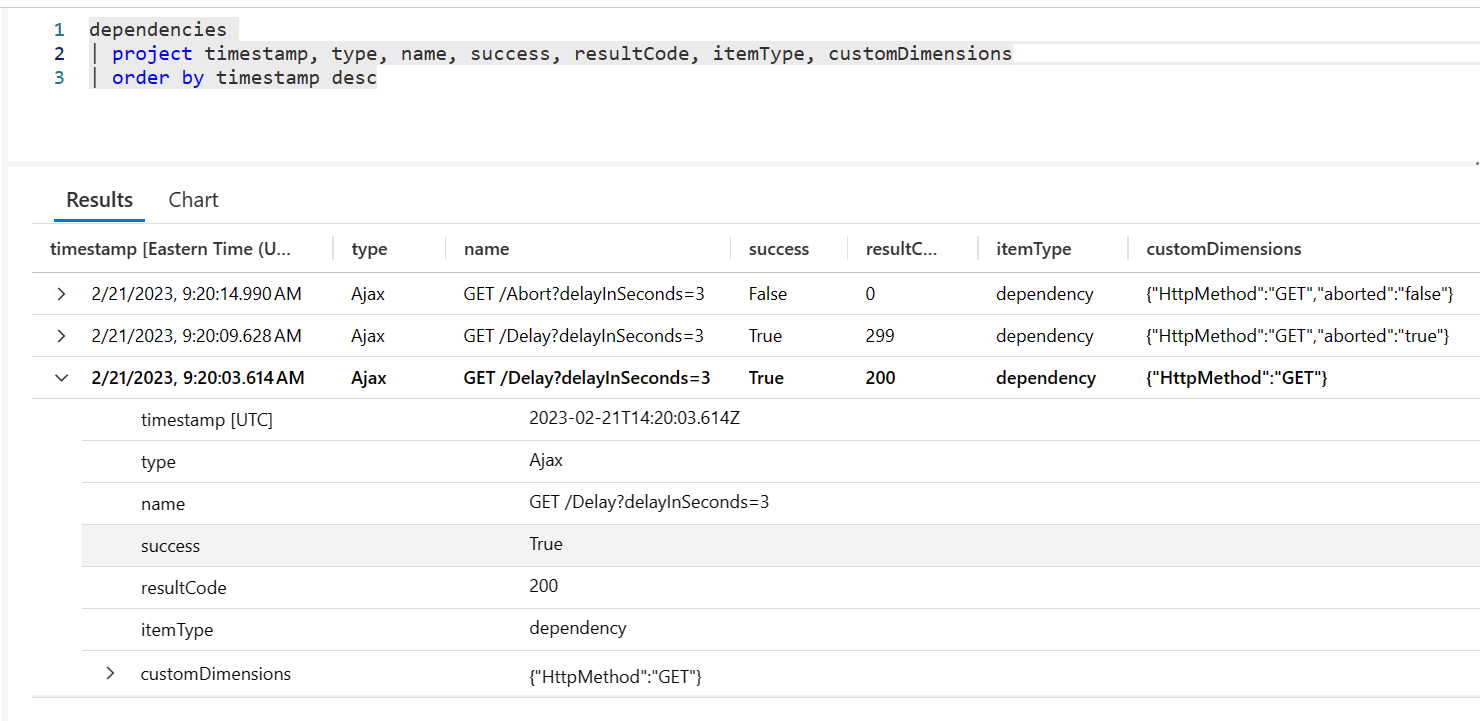
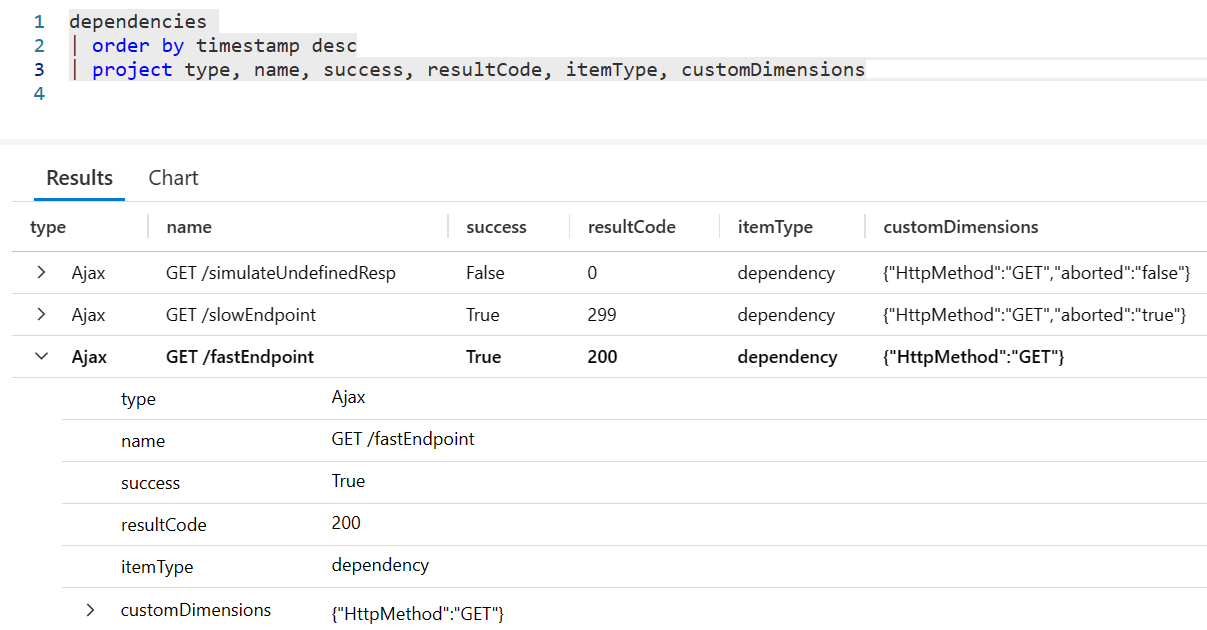
fix typos, new intro, new screenshots

diff --git a/src/ajax-demo/wwwroot/index.html b/src/ajax-demo/wwwroot/index.html
@@ -4,6 +4,7 @@
 <head>
     <meta charset="utf-8" />
     <title>Application Insights Telemetry Enrichment - Aborted Dependency Demo</title>
+    <link rel="icon" href="data:,">
     <script src="/javascript.js" type="text/javascript"></script>
     <script type="text/javascript">
         !function (T, l, y) { var S = T.location, k = "script", D = "connectionString", C = "ingestionendpoint", I = "disableExceptionTracking", E = "ai.device.", b = "toLowerCase", w = "crossOrigin", N = "POST", e = "appInsightsSDK", t = y.name || "appInsights"; (y.name || T[e]) && (T[e] = t); var n = T[t] || function (d) { var g = !1, f = !1, m = { initialize: !0, queue: [], sv: "5", version: 2, config: d }; function v(e, t) { var n = {}, a = "Browser"; return n[E + "id"] = a[b](), n[E + "type"] = a, n["ai.operation.name"] = S && S.pathname || "_unknown_", n["ai.internal.sdkVersion"] = "javascript:snippet_" + (m.sv || m.version), { time: function () { var e = new Date; function t(e) { var t = "" + e; return 1 === t.length && (t = "0" + t), t } return e.getUTCFullYear() + "-" + t(1 + e.getUTCMonth()) + "-" + t(e.getUTCDate()) + "T" + t(e.getUTCHours()) + ":" + t(e.getUTCMinutes()) + ":" + t(e.getUTCSeconds()) + "." + ((e.getUTCMilliseconds() / 1e3).toFixed(3) + "").slice(2, 5) + "Z" }(), name: "Microsoft.ApplicationInsights." + e.replace(/-/g, "") + "." + t, sampleRate: 100, tags: n, data: { baseData: { ver: 2 } } } } var h = d.url || y.src; if (h) { function a(e) { var t, n, a, i, r, o, s, c, u, p, l; g = !0, m.queue = [], f || (f = !0, t = h, s = function () { var e = {}, t = d.connectionString; if (t) for (var n = t.split(";"), a = 0; a < n.length; a++) { var i = n[a].split("="); 2 === i.length && (e[i[0][b]()] = i[1]) } if (!e[C]) { var r = e.endpointsuffix, o = r ? e.location : null; e[C] = "https://" + (o ? o + "." : "") + "dc." + (r || "services.visualstudio.com") } return e }(), c = s[D] || d[D] || "", u = s[C], p = u ? u + "/v2/track" : d.endpointUrl, (l = []).push((n = "SDK LOAD Failure: Failed to load Application Insights SDK script (See stack for details)", a = t, i = p, (o = (r = v(c, "Exception")).data).baseType = "ExceptionData", o.baseData.exceptions = [{ typeName: "SDKLoadFailed", message: n.replace(/\./g, "-"), hasFullStack: !1, stack: n + "\nSnippet failed to load [" + a + "] -- Telemetry is disabled\nHelp Link: https://go.microsoft.com/fwlink/?linkid=2128109\nHost: " + (S && S.pathname || "_unknown_") + "\nEndpoint: " + i, parsedStack: [] }], r)), l.push(function (e, t, n, a) { var i = v(c, "Message"), r = i.data; r.baseType = "MessageData"; var o = r.baseData; return o.message = 'AI (Internal): 99 message:"' + ("SDK LOAD Failure: Failed to load Application Insights SDK script (See stack for details) (" + n + ")").replace(/\"/g, "") + '"', o.properties = { endpoint: a }, i }(0, 0, t, p)), function (e, t) { if (JSON) { var n = T.fetch; if (n && !y.useXhr) n(t, { method: N, body: JSON.stringify(e), mode: "cors" }); else if (XMLHttpRequest) { var a = new XMLHttpRequest; a.open(N, t), a.setRequestHeader("Content-type", "application/json"), a.send(JSON.stringify(e)) } } }(l, p)) } function i(e, t) { f || setTimeout(function () { !t && m.core || a() }, 500) } var e = function () { var n = l.createElement(k); n.src = h; var e = y[w]; return !e && "" !== e || "undefined" == n[w] || (n[w] = e), n.onload = i, n.onerror = a, n.onreadystatechange = function (e, t) { "loaded" !== n.readyState && "complete" !== n.readyState || i(0, t) }, n }(); y.ld < 0 ? l.getElementsByTagName("head")[0].appendChild(e) : setTimeout(function () { l.getElementsByTagName(k)[0].parentNode.appendChild(e) }, y.ld || 0) } try { m.cookie = l.cookie } catch (p) { } function t(e) { for (; e.length;)!function (t) { m[t] = function () { var e = arguments; g || m.queue.push(function () { m[t].apply(m, e) }) } }(e.pop()) } var n = "track", r = "TrackPage", o = "TrackEvent"; t([n + "Event", n + "PageView", n + "Exception", n + "Trace", n + "DependencyData", n + "Metric", n + "PageViewPerformance", "start" + r, "stop" + r, "start" + o, "stop" + o, "addTelemetryInitializer", "setAuthenticatedUserContext", "clearAuthenticatedUserContext", "flush"]), m.SeverityLevel = { Verbose: 0, Information: 1, Warning: 2, Error: 3, Critical: 4 }; var s = (d.extensionConfig || {}).ApplicationInsightsAnalytics || {}; if (!0 !== d[I] && !0 !== s[I]) { var c = "onerror"; t(["_" + c]); var u = T[c]; T[c] = function (e, t, n, a, i) { var r = u && u(e, t, n, a, i); return !0 !== r && m["_" + c]({ message: e, url: t, lineNumber: n, columnNumber: a, error: i }), r }, d.autoExceptionInstrumented = !0 } return m }(y.cfg); function a() { y.onInit && y.onInit(n) } (T[t] = n).queue && 0 === n.queue.length ? (n.queue.push(a), n.trackPageView({})) : a() }(window, document, {

diff --git a/src/ajax-demo/wwwroot/javascript.js b/src/ajax-demo/wwwroot/javascript.js
@@ -52,7 +52,7 @@ document.addEventListener("DOMContentLoaded", (event) => {
     btnSuccessfulXHR.addEventListener('click', async () => {
         const xhr = new XMLHttpRequest();
         xhr.addEventListener("load", (e) => console.log(e.target.response));
-        xhr.open("GET", "/Delay?delayInSeconds=3");
+        xhr.open("GET", "/fastEndpoint");
         xhr.send();
     });
 
@@ -61,7 +61,7 @@ document.addEventListener("DOMContentLoaded", (event) => {
     btnClientAbortXHR.addEventListener('click', async () => {
         let xhr = new XMLHttpRequest();
         xhr.addEventListener("load", (e) => console.log(e.target.response));
-        xhr.open("GET", "/Delay?delayInSeconds=3");
+        xhr.open("GET", "/slowEndpoint");
         xhr.send();
         // abort the call before it's completed at the server
         setTimeout(() => xhr.abort(), 1500); //abort in 1.5 seconds
@@ -72,14 +72,14 @@ document.addEventListener("DOMContentLoaded", (event) => {
     btnUndefinedResponseXHR.addEventListener('click', async () => {
         let xhr = new XMLHttpRequest();
         xhr.addEventListener("load", (e) => console.log(e.target.response));
-        xhr.open("GET", "/Abort?delayInSeconds=3");
+        xhr.open("GET", "/simulateUndefinedResp");
         xhr.send();
     });
 
 
     let btnSuccessfulFetch = document.getElementById('btnSuccessfulFetch');
     btnSuccessfulFetch.addEventListener('click', async () => {
-        await fetch('/Delay?delayInSeconds=3')
+        await fetch('/fastEndpoint')
             .then((response) => response.json())
             .then((data) => console.log(data));
     });
@@ -91,7 +91,7 @@ document.addEventListener("DOMContentLoaded", (event) => {
         // abort the call before it's completed at the server
         setTimeout(() => abortController.abort(), 1500); //abort in 1.5 seconds
 
-        await fetch('/Delay?delayInSeconds=3', {
+        await fetch('/slowEndpoint', {
             signal: abortController.signal
         })
             .then((response) => response.json())
@@ -101,7 +101,7 @@ document.addEventListener("DOMContentLoaded", (event) => {
 
     let btnUndefinedResponseFetch = document.getElementById('btnUndefinedResponseFetch');
     btnUndefinedResponseFetch.addEventListener('click', async () => {
-        await fetch('/Abort?delayInSeconds=3')
+        await fetch('/simulateUndefinedResp')
             .then((response) => response.json())
             .then((data) => console.log(data));
     });

diff --git a/src/ajax-demo/Program.cs b/src/ajax-demo/Program.cs
@@ -1,22 +1,31 @@
 var builder = WebApplication.CreateBuilder(args);
+builder.WebHost.UseUrls("http://localhost:5000/");
 
 var app = builder.Build();
 app.UseDefaultFiles();
 app.UseStaticFiles();
 
-app.MapGet("/Delay", async (int delayInSeconds, Microsoft.AspNetCore.Http.HttpContext context) =>
+const int DELAY_IN_SECONDS = 3;
+
+app.MapGet("/fastEndpoint", () =>
 {
-    var startTime = DateTime.Now;
-    await System.Threading.Tasks.Task.Delay(delayInSeconds * 1000);
-    var endTime = DateTime.Now;
-    
+    var searchResults = new[] { new { key = 1, value = "motor" }, new { key = 2, value = "motorcycle" }, new { key = 3, value = "motown" } };
     // return some arbitrary data just so we have something to see on the browsers console.
-    return new {delayInSeconds = delayInSeconds, startTime = startTime.ToLongTimeString(), endTime = endTime.ToLongTimeString() };
+    return new { data = searchResults, serverTime = DateTime.Now.ToLongTimeString() };
 });
 
-app.MapGet("/Abort", async (int delayInSeconds, Microsoft.AspNetCore.Http.HttpContext context) =>
+app.MapGet("/slowEndpoint", async () =>
 {
-    await System.Threading.Tasks.Task.Delay(delayInSeconds * 1000);
+    await System.Threading.Tasks.Task.Delay(DELAY_IN_SECONDS * 1000);
+
+    var searchResults = new[] { new { key = 1, value = "car" }, new { key = 2, value = "carpet" }, new { key = 3, value = "carrot" } };
+    // return some arbitrary data just so we have something to see on the browsers console.
+    return new { data = searchResults, delayInSeconds = DELAY_IN_SECONDS, serverTime = DateTime.Now.ToLongTimeString() };
+});
+
+app.MapGet("/simulateUndefinedResp", async (Microsoft.AspNetCore.Http.HttpContext context) =>
+{
+    await System.Threading.Tasks.Task.Delay(DELAY_IN_SECONDS * 1000);
     // calling Abort on the context kills the connection. The client won't know why the connection was dropped.
     // this is an easy way to simulate a server crash or a network partition.
     context.Abort();

diff --git a/README.md b/README.md
@@ -1,22 +1,24 @@
-# Making Application Insights even more insightful with telemetry enrichment
-Application Insights offers a tremendous amount of observability with minimal configuration. The library of SDKs and collection agents truly do a wonderful job straight out of the box. However, they cannot account for every possible scenario. Some times we need more context-specific information for a crucial insight. This is where telemetry enrichment comes into play. In this article we will explore a real world scenario where we used telemetry enrichment to provide that necessary insight.
+# Making Azure Monitor even more insightful with telemetry enrichment
+Azure Monitor offers a tremendous amount of observability with minimal configuration. The Azure Monitor Agent and Application Insights SDKs truly do a wonderful job straight out of the box. However, they cannot account for every possible scenario. Some times we need more context-specific information for a crucial insight. This is where telemetry enrichment comes into play. In this article we will explore a real world scenario where we used telemetry enrichment to provide that necessary insight.
 
-Let me provide some context before we go further. Our application is a single page web app supported by a BFF, both of which are instrumented with the Application Insights SDK for their respective platform. Application Insights has built-in dashboards that provide various perspectives on the health of our app, we will be focusing on the failures dashboard. The failures dashboard is organized around two major perspectives, server side failures and client side failures.
+Let me provide some context before we go further. Our application is a single page web app supported by a BFF (backend for frontend), both of which are instrumented with the Application Insights SDK for their respective platform. 
+
+Application Insights has built-in dashboards that provide various perspectives on the health of our app, we will be focusing on the failures dashboard. The failures dashboard is organized around two major perspectives, server side failures and client side failures.
 
 ## Here's our dilemma
-The server side telemetry is painting a mostly unremarkable picture, there are some exceptions but nothing is raising red flags. The client side is a different story. A very large number of request are shown as failures with a result* code of 0 (zero). Wait a tick... result code 0? We were expecting to see HTTP 400 and 500 codes. What does result code 0 mean?
+The server side telemetry is painting a mostly unremarkable picture, there are some exceptions but nothing too concerning. The client side is a different story. A very large number of request are shown as failures with a result* code of 0 (zero). Wait a tick... result code 0? We were expecting to see HTTP 400 and 500 codes. What does result code 0 mean?
 
-> \* In Application Insights you will find a field called Re**sult** Code instead of Res**ponse** Code. This is because Application Insights tracks more than just HTTP dependencies, so you may see non-HTTP codes in the logs if your application has other types of dependencies. In our case we were dealing with HTTP traffic so a code of 0 was not something we were expecting.
+> \* In the Application Insights portal you will find a field called Re**sult** Code instead of Res**ponse** Code. This is because Application Insights tracks more than just HTTP dependencies, so you may see non-HTTP codes in the logs. In this instance we were dealing with HTTP traffic so a code of 0 was not something we were expecting.
 
 ## Result code 0
-Most of us are familiar with the common HTTP response status codes. 200 OK, 301 Redirect, 404 Not-Found, etc... but have you encountered response code 0 (zero). In case you haven't, let me explain what it's all about.
+Most of us are familiar with the common HTTP response status codes: 200 OK, 301 Redirect, 404 Not-Found, etc. But have you ever encountered response code 0 (zero)? In case you haven't, let me explain what it's all about.
 
 When we think of HTTP response status codes we take it for granted that the server received the request from the client and subsequently, that the response from the server made it back to the client. But what happens when the client doesn't hear back from the server in a timely fashion, or perhaps the client aborts a request that is no longer needed? We'll refer to these scenarios as fragmented HTTP request and response pairs or 'fragmented pairs' for short.
 
 ![Normal HTTP Request and Response Pair | Fragmented Pair](screenshots/http_request_response.png)
 
 ### Fragmented Pairs - Undefined response and aborted requests
-The fragmented pair scenarios can be grouped into two broad categories. The first category encompasses circumstances like network partition, back-end service disruption, a busy server, the intern tripped over the power cable, etc... In these circumstances the client has no way of knowing if the server was able to send a response, and if so, did the response get lost on the way to the client. In other words, the client can't tell the difference between the server crashing (no response was ever sent) and the server responding but the response that was lost due to a network issue. From the client's perspective the response is **undefined**.
+The fragmented pair scenarios can be grouped into two broad categories. The first category encompasses circumstances like network partition, back-end service disruption, a busy server, the intern tripping over the power cable, fun stuff like that. In these circumstances the client has no way of knowing if the server was able to send a response, and if so, did the response get lost on the way to the client. In other words, the client can't tell the difference between the server crashing (no response was ever sent) and the server responded but the response was lost due to a network issue. From the client's perspective the response is **undefined**.
 
 There is little the client telemetry agent can do when the response is undefined. For the sake of argument let's assume the server was able to respond but the response never arrived at the client due to a network partition. Ostensibly, Application Insights could correlate the client's request with the server response **after the fact** because ultimately Application Insights has visibility into both sides. Even so, we must consider the response undefined because the response never reached the client. At the time of the request the client was left holding the bag. The client telemetry agent is forced to record the request as a failure and assign a result code of 0 as a way to signal that the response was undefined.
 
@@ -26,7 +28,7 @@ As you may have surmise, there is a key difference between the first and second 
 
 ## Back to the problem at hand 
 
-To recap, the server side failures is showing nothing out of the ordinary but the client side failures is showing a large number of failed request with a result code of 0. After drilling into the logs we discover that the vast majority of client side exceptions are attributed to an autocomplete search. Our intuition is telling us that perhaps these failed request are being deliberately aborted by the client. A quick glance at the client code confirms that the client is in fact aborting autocomplete queries when they are no longer necessary. Because we know the client is aborting request we can safely assume that some percentage of the reportedly failed request are false positives (aborted request). Problem solved, right? Not so fast.
+To recap, the server side failures dashboard is showing nothing out of the ordinary but the client side is showing a large number of failed request with a result code of 0. After drilling into the logs we discover that the vast majority of client side exceptions are attributed to an autocomplete search. Our intuition is telling us that perhaps these failed request are being deliberately aborted by the client. A quick glance at the client code confirms that the client is in fact aborting autocomplete queries when the response is no longer relevant. Because we know the client is aborting request we can safely assume that some percentage of the reportedly failed request are false positives (aborted request). Problem solved, right? Not so fast.
 
 The client telemetry agent can't tell the difference between an aborted request and an undefined response. The client telemetry agent simply doesn't understand the context of the request, how could it? So it does the only sensible thing, it records aborted request and undefined responses the same way, as dependency failures with a result code of 0. 
 
@@ -42,16 +44,13 @@ What this means for us is that we can't rule out that the client is not experien
 > * You want to include other custom dimensions.
 
 ## The solution
-In order to discern between deliberately aborted requests and undefined responses we will need to enrich the telemetry logs with enough information to tell them apart. The solution comes in two parts: what information do we need to add to the telemetry logs and how exactly do we ago about adding said information to the telemetry logs.  
+In order to discern between deliberately aborted requests and undefined responses we will need to enrich the telemetry logs with enough information to tell them apart. The solution comes in two parts: what information must be added to the telemetry logs and how exactly do we go about adding said information to the logs.  
 
-As for the 'what', we got that covered. The XHR (XMLHttpRequest) object exposes an aptly named attributed called [aborted](https://www.w3.org/TR/XMLHttpRequest1/#dom-xmlhttprequest-send). The fetch api does not expose an aborted attribute directly but equivalent functionality is provided by the [AbortControl](https://developer.mozilla.org/en-US/docs/Web/API/AbortController) interface.
+As for the 'what', we got that covered. The XHR (XMLHttpRequest) object exposes an aptly named attributed called [aborted](https://www.w3.org/TR/XMLHttpRequest1/#dom-xmlhttprequest-send). The fetch API does not expose an aborted attribute directly but equivalent functionality is provided by the [AbortControl](https://developer.mozilla.org/en-US/docs/Web/API/AbortController) interface.
 
-As for the 'how', it's Application Insights to the rescue. In Application Insights parlance, the XHR and fetch request are referred to as dependencies. The Application Insights javascript SDK provides callback functions that are called before and after a dependency is utilized. There are also callbacks available that are called before the telemetry record is sent to the telemetry collection point. The callbacks expose the necessary data and functionality to accomplish our goal. To learn more about these callbacks visit [ApplicationInsights-JS](https://github.com/microsoft/ApplicationInsights-JS).
+As for the 'how', it's Application Insights to the rescue. In Application Insights parlance, the XHR and fetch request are referred to as dependencies. The Application Insights javascript SDK provides callback functions that are called before and after a dependency is utilized and before the telemetry record is sent to the telemetry collection point. The callbacks expose the necessary data and functionality to accomplish our goal. To learn more about these callbacks visit [ApplicationInsights-JS](https://github.com/microsoft/ApplicationInsights-JS).
 
 ### The code
-
-> For the sake of brevity I am going to assume your app is already configured to use Applications Insights. If not, don't worry, it's easy. Here is a [guide](https://learn.microsoft.com/en-us/azure/azure-monitor/app/javascript?tabs=snippet#add-the-javascript-sdk).
-
 In this solution we will implement the following callbacks:
 * **Dependency Listener**
 * **Dependency Initializer**
@@ -66,7 +65,7 @@ The [Dependency Listener](https://github.com/microsoft/ApplicationInsights-JS#de
 > * Ability to get/set the properties used to generate the W3C traceparent header (traceId, spanId, traceFlags)
 > * Set values in the object context container for other listeners called after the current one, as well as this context object is also made available to all dependency initializers.
 
-The first and third bullet above are what we need for our solution. Access to the XHR instance and the init argument of the fetch api means we can inspect those objects to determine if the request was aborted. The capabilities offered by the third bullet allows us to bubble the information we need to the dependency initializers and eventually the telemetry initializer.
+The first and third bullet above are what we need for our solution. Access to the XHR instance and the init argument of the fetch API means we can inspect those objects to determine if the request was aborted. The capabilities offered by the third bullet allows us to pass the information we need to the dependency initializers and eventually the telemetry initializer.
 
 ```javascript
 sdk.addDependencyListener((dependencyDetails) => {
@@ -85,9 +84,9 @@ sdk.addDependencyListener((dependencyDetails) => {
 
 Things to note about the callback above:
 * The aborted property on the xhr.ajaxData object is an integer where as on the init.signal object it is a boolean. I am choosing to normalize the return value of the function as a boolean.
-* The logic to discern between an XHR and a fetch request is encapsulated in a function. There are three reasons for this choice.
+* The logic to discern between an XHR and a fetch request is encapsulated in a function. There are three reasons for this choice:
   * Plain old code encapsulation. To put it bluntly, the rest of the callback chain doesn't need to know how the aborted property is obtained.
-  * If we don't create the function at this stage we will need to bubble up both the XHR and the init objects further down the callback chain.
+  * If we don't create the function at this stage we will need to bubble up both the XHR and the init objects to the rest of the callback chain.
   * The actual HTTP request hasn't been made yet so if we were to observe the value of the aborted property the property would be undefined.
 
 #### Dependency Initializer
@@ -120,19 +119,19 @@ sdk.addTelemetryInitializer((envelope) => {
 
 Things to note about the code above:
 * We are only capturing the aborted property if the response code equals 0. This is simply an optimization so we don't call our custom isAborted function unnecessarily and we don't capture more data than we need.
-* I chose to replace the response code with a custom response code. The reason for replacing the response code is purely pragmatic. If we leave the response code as 0 the observability platform will consider these request as failed. Using a custom response code in the 200s range avoids that pesky issue and it also servers as a hint for folks unfamiliar with the application that there is a custom solution at play.
+* I chose to replace the response code with a custom response code. The reason for replacing the response code is purely pragmatic. If we leave the response code as 0 the observability platform will consider these request as failed dependencies. Using a custom response code in the 200s range avoids that pesky issue and it also servers as a hint for folks unfamiliar with the application that there is a custom solution at play.
 
 #### Putting it all together
-Our work here is done. The Application Insights SDK will call the callbacks and take care of pushing the enriched telemetry record to the collection endpoint. The dashboard on the Application Insights portal no longer show aborted request as failed dependencies and we can discern between aborted request and undefined responses.
+Our work here is done. The Application Insights SDK will call the callbacks and take care of pushing the enriched telemetry record to the collection endpoint. Now when we look at the Application Insights dashboards we no longer see a bunch of failed client dependencies. The dashboards reflect a true representation of the facts.
 
 ### Free Samples
-As part of this article I've included some sample code because I'm pretty sure the internet would break if I didn't include some code samples. The sample code is designed to illustrate three key scenarios, I encourage you to check them out. The three scenarios are implemented using both the XMLHttpRequest and fetch APIs, for a grand total of 6 samples. 
+As part of this article I've included some sample code because I'm pretty sure the internet would break if I didn't include some code samples. The samples are designed to illustrate three key scenarios: a successful request, an aborted request, and an undefined response. The three scenarios are implemented using the XMLHttpRequest API and the fetch API for a grand total of 6 samples. I encourage you to check them out.
 
-The sample code assumes you've already provision an [Application Insights](https://learn.microsoft.com/en-us/azure/azure-monitor/app/app-insights-overview?) instance. You will need to provide your own connection string. Take a look at the index.html page where you will find a spot to provide your connection string and a simple user interface for the samples.
+The sample code assumes you've already provision an [Application Insights](https://learn.microsoft.com/en-us/azure/azure-monitor/app/app-insights-overview?) instance. You will need to provide your own connection. Take a look at the index.html page in the provided source code where you will find a spot to enter your connection string ([snippet-based setup](https://learn.microsoft.com/en-us/azure/azure-monitor/app/javascript?tabs=snippet#add-the-javascript-sdk)) and a simple user interface for the samples.
 
-The front-end is written in vanilla javascript and HTML. The back-end is a barebones web server written in C#. If you need guidance on building and running a .Net app this [tutorial](https://dotnet.microsoft.com/en-us/learn/dotnet/hello-world-tutorial/intro) has you covered.
+The front-end is written in vanilla javascript and HTML. The back-end is a barebones web server written in C#. If you need guidance on how to build an run a .Net app this [tutorial](https://dotnet.microsoft.com/en-us/learn/dotnet/hello-world-tutorial/intro) has you covered.
 
-To see the demo in action build and run the app, open a browser, then visit http://localhost:5054/. You should see the following interface. Click the buttons, wait a few seconds, then visit the logs pane of your Application Insights instance on the Azure portal.
+To see the demo in action build and run the app, open a browser, then visit http://localhost:5000/. You should see the interface pictured below. Click the buttons, wait a few seconds, then visit the logs pane of your Application Insights instance on the Azure portal.
 
 ![Demo user interface](screenshots/ui.png)
 
@@ -154,4 +153,4 @@ Our last scenario is an undefined response. To simulate this scenario we will ca
 
 ## Parting thoughts
 
-Inaccurate telemetry data is wasteful at best and causes apathy at worst. Always ensure your observability solution is providing accurate data and actionable insights. If your observability platform is not providing you with the information you need I encourage you to invest the resources necessary to make it so. 
+Inaccurate telemetry data is wasteful at best and causes apathy at worst. Always ensure your observability solution is providing accurate data and actionable insights. If your observability platform is not providing you with accurate information I encourage you to invest the resources necessary to make it so.
